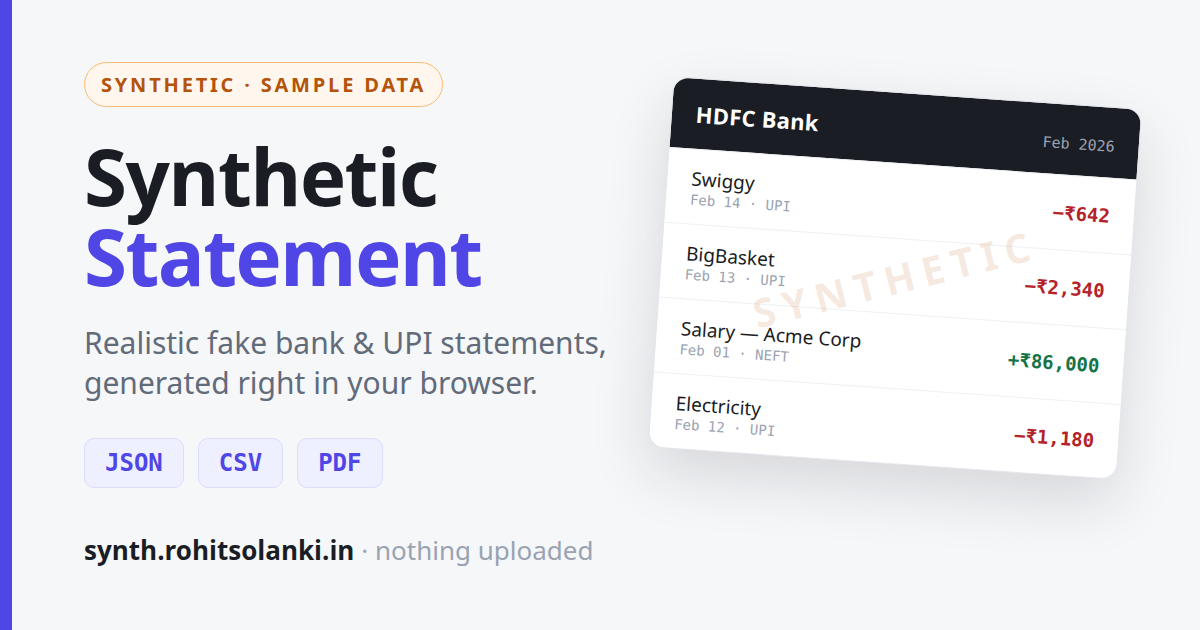
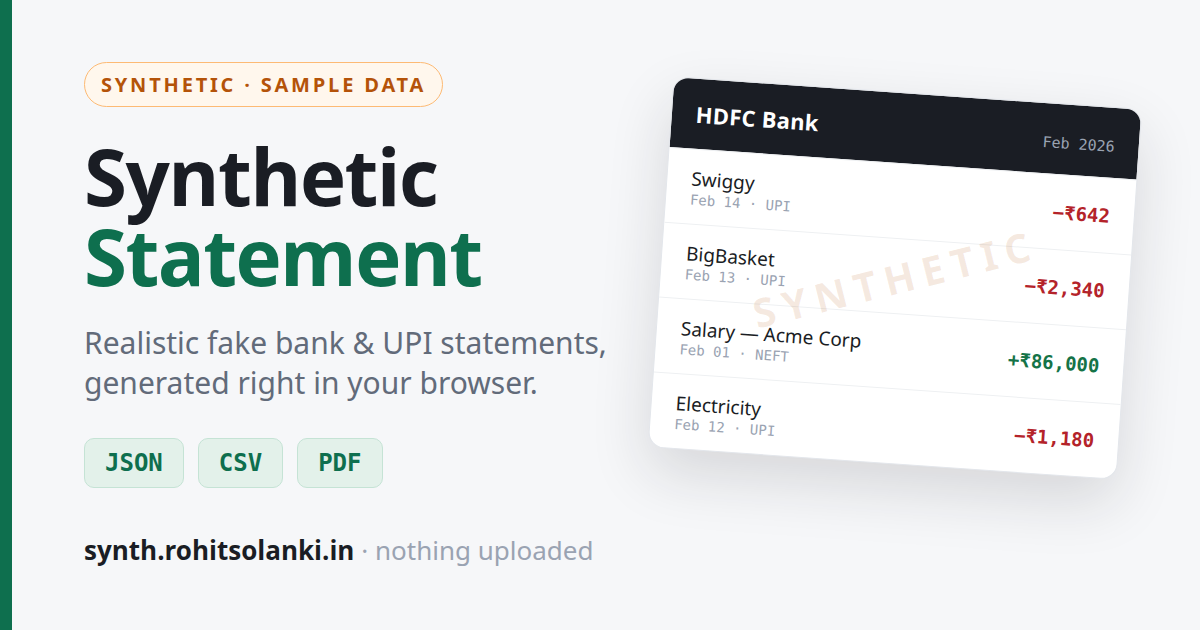
style: recolour to the emerald personal-brand accent (tool + OG card)
Aligns synth.rohitsolanki.in with the personal-site palette — the tool is a
portfolio property, so it wears the personal emerald accent, not its own.
- docs/style.css: --accent indigo → emerald (light #0e6f4e / dark #3fbf8f)
- docs/og.png: regenerated share card in emerald (semantic amber 'SYNTHETIC' badge kept)

diff --git a/docs/style.css b/docs/style.css
@@ -5,7 +5,7 @@
   --ink: #1a1d24;
   --muted: #626b7a;
   --line: #e3e6eb;
-  --accent: #4f46e5;
+  --accent: #0e6f4e;
   --accent-ink: #ffffff;
   --warn-bg: #fff7ed;
   --warn-line: #fdba74;
@@ -22,7 +22,7 @@
     --ink: #e8eaed;
     --muted: #9aa3b2;
     --line: #262b34;
-    --accent: #7c7bff;
+    --accent: #3fbf8f;
     --accent-ink: #0f1115;
     --warn-bg: #2a1c0f;
     --warn-line: #7c4a1e;
